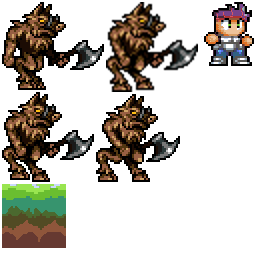
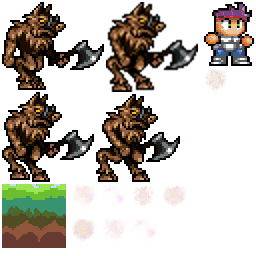
dust effect when jumping and added credits

diff --git a/lib/src/shared/systems/logic.dart b/lib/src/shared/systems/logic.dart
@@ -84,7 +84,7 @@ class AnimationSystem extends EntityProcessingSystem {
   void processEntity(Entity entity) {
     var r = rm[entity];
 
-    r.frame = (r.maxFrames - 5 * world.time % r.maxFrames).toInt();
+    r.time += world.delta;
   }
 }
 
@@ -112,6 +112,68 @@ class AiSystem extends EntityProcessingSystem {
       a.x = ai.acc;
     } else {
       a.x = ai.acc * FastMath.signum(v.x);
+    }
+  }
+}
+
+class DustSpawningSystem extends EntitySystem {
+  TagManager tm;
+  Mapper<Position> pm;
+
+  bool spawn = false;
+  double offsetX = 0.0;
+
+  DustSpawningSystem() : super(Aspect.getEmpty());
+
+  @override
+  void processEntities(Iterable<Entity> entities) {
+    var player = tm.getEntity(playerTag);
+    var p = pm[player];
+    for (int i = 0; i < 5; i++) {
+      world.createAndAddEntity(
+          [
+              new Renderable('dust_${random.nextInt(2)}', 4, 0.05, random.nextBool()),
+              new Position(-32 + p.x + random.nextInt(64) + offsetX, p.y - 10 - random.nextInt(20)),
+              new Lifetime(0.2)]);
+    }
+    spawn = false;
+  }
+
+  @override
+  bool checkProcessing() => spawn;
+}
+
+
+class LifetimeSystem extends EntityProcessingSystem {
+  Mapper<Lifetime> lm;
+  LifetimeSystem() : super(Aspect.getAspectForAllOf([Lifetime]));
+
+  @override
+  void processEntity(Entity entity) {
+    var l = lm[entity];
+    l.value -= world.delta;
+    if (l.value <= 0.0) {
+      entity.deleteFromWorld();
+    }
+  }
+}
+
+class DelayedJumpSystem extends EntityProcessingSystem {
+  Mapper<Velocity> vm;
+  Mapper<DelayedJump> djm;
+
+  DelayedJumpSystem() : super(Aspect.getAspectForAllOf([DelayedJump, Velocity]));
+
+  @override
+  void processEntity(Entity entity) {
+    var dj = djm[entity];
+
+    dj.value -= world.delta;
+    if (dj.value <= 0.0) {
+      var v = vm[entity];
+      v.y = 6.0 * PIXEL_PER_METER;
+      entity..removeComponent(DelayedJump)
+            ..changedInWorld();
     }
   }
 }

diff --git a/lib/client.dart b/lib/client.dart
@@ -23,13 +23,9 @@ class Game extends GameBase {
     var player = addEntity([new Controller(), new Position(400.0, 0.0), new Acceleration(), new Velocity(), new Renderable('player')]);
     tm.register(player, playerTag);
 
-    addEntity([new Position(100.0, 0.0), new Acceleration(), new Velocity(), new Renderable('player', 0, 1, false)]);
-    addEntity([new Position(200.0, 0.0), new Acceleration(), new Velocity(), new Renderable('player', 0, 1, false)]);
-    addEntity([new Position(500.0, 0.0), new Acceleration(), new Velocity(), new Renderable('player')]);
-    addEntity([new Position(600.0, 0.0), new Acceleration(), new Velocity(), new Renderable('player')]);
-    addEntity([new Position(700.0, 0.0), new Acceleration(), new Velocity(), new Renderable('monster_0', 0, 4), new Ai(400.0, 1000.0, 10.0 * PIXEL_PER_METER)]);
+    addEntity([new Position(700.0, 0.0), new Acceleration(), new Velocity(), new Renderable('monster_0', 4), new Ai(400.0, 1000.0, 10.0 * PIXEL_PER_METER)]);
     for (int i = 0; i < 800; i += 64) {
-      addEntity([new Position(i.toDouble(), -64.0), new Renderable('ground', 0, 1, random.nextBool())]);
+      addEntity([new Position(i.toDouble(), -64.0), new Renderable('ground', 1, 1.0, random.nextBool())]);
     }
   }
 
@@ -38,6 +34,7 @@ class Game extends GameBase {
             new TweeningSystem(),
 
             new InputHandlingSystem(),
+            new DustSpawningSystem(),
             new AiSystem(),
             new DirectionSystem(),
             new AnimationSystem(),
@@ -48,6 +45,9 @@ class Game extends GameBase {
 
             new WebGlCanvasCleaningSystem(ctx),
             new SpriteRenderingSystem(ctx, spriteSheet),
+
+            new LifetimeSystem(),
+            new DelayedJumpSystem(),
 
 //            new FpsRenderingSystem(ctx),
             new AnalyticsSystem(AnalyticsSystem.GITHUB, 'minild57')

diff --git a/lib/src/client/systems/events.dart b/lib/src/client/systems/events.dart
@@ -2,9 +2,11 @@ part of client;
 
 
 class InputHandlingSystem extends GenericInputHandlingSystem {
+  DustSpawningSystem dss;
   Mapper<Acceleration> am;
   Mapper<Velocity> vm;
   Mapper<Position> pm;
+  Mapper<DelayedJump> djm;
 
   InputHandlingSystem() : super(Aspect.getAspectForAllOf([Controller, Position, Velocity]));
 
@@ -13,10 +15,13 @@ class InputHandlingSystem extends GenericInputHandlingSystem {
   void processEntity(Entity entity) {
     var p = pm[entity];
     var v = vm[entity];
-    if (p.y <= 10.0 && v.y >= 0.0) {
+    if (p.y <= 10.0 && v.y == 0.0) {
       var a = am[entity];
-      if (keyState[KeyCode.S] == true) {
-        v.y = 6.0 * PIXEL_PER_METER;
+      if (keyState[KeyCode.S] == true && !djm.has(entity)) {
+        entity..addComponent(new DelayedJump(0.15))
+              ..changedInWorld();
+        dss.spawn = true;
+        dss.offsetX = v.x * 8 * world.delta;
       }
       if (keyState[KeyCode.A] == true) {
         a.x = 20.0 * PIXEL_PER_METER;

diff --git a/lib/src/shared/components.dart b/lib/src/shared/components.dart
@@ -18,12 +18,13 @@ class Acceleration extends Component {
 
 class Renderable extends Component {
   String _name;
-  int frame;
   int maxFrames;
+  double timePerFrame;
+  double time;
   bool facesRight;
-  Renderable(this._name, [this.frame = 0, this.maxFrames = 1, this.facesRight = true]);
+  Renderable(this._name, [this.maxFrames = 1, this.timePerFrame = 0.2, this.facesRight = true, this.time = 0.0]);
 
-  String get name => '${_name}_${frame}';
+  String get name => '${_name}_${maxFrames - (time / timePerFrame % maxFrames).toInt() - 1}';
 }
 
 class Controller extends Component {}
@@ -31,4 +32,14 @@ class Controller extends Component {}
 class Ai extends Component {
   double xMin, xMax, acc;
   Ai(this.xMin, this.xMax, this.acc);
+}
+
+class Lifetime extends Component {
+  double value;
+  Lifetime(this.value);
+}
+
+class DelayedJump extends Component {
+  double value;
+  DelayedJump(this.value);
 }

diff --git a/web/index.html b/web/index.html
@@ -9,6 +9,17 @@
   <body>
     <canvas width="800" height="600"></canvas>
 
+    <fieldset>
+      <legend>Credits</legend>
+      <ul>
+        <li>
+          Monsters by <a href="http://opengameart.org/content/tower-defense-prototyping-assets-4-monsters-some-tiles-a-background-image">Stephen Challener (Redshrike), hosted by OpenGameArt.org</a>
+          with changes to size and opacity, License: <a href="https://creativecommons.org/licenses/by/3.0/">CC BY 3.0</a>
+        </li>
+        <li>Jump effect by <a href="http://opengameart.org/content/5x-special-effects-2d">rubberduck</a></li>
+      </ul>
+    </fieldset>
+
     <script>
       (function(i,s,o,g,r,a,m){i['GoogleAnalyticsObject']=r;i[r]=i[r]||function(){
       (i[r].q=i[r].q||[]).push(arguments)},i[r].l=1*new Date();a=s.createElement(o),

diff --git a/web/minild57.css b/web/minild57.css
@@ -1,3 +1,9 @@
 body {
   text-align: center;
 }
+
+fieldset {
+  width: 700px;
+  text-align: left;
+  margin: auto;
+}
